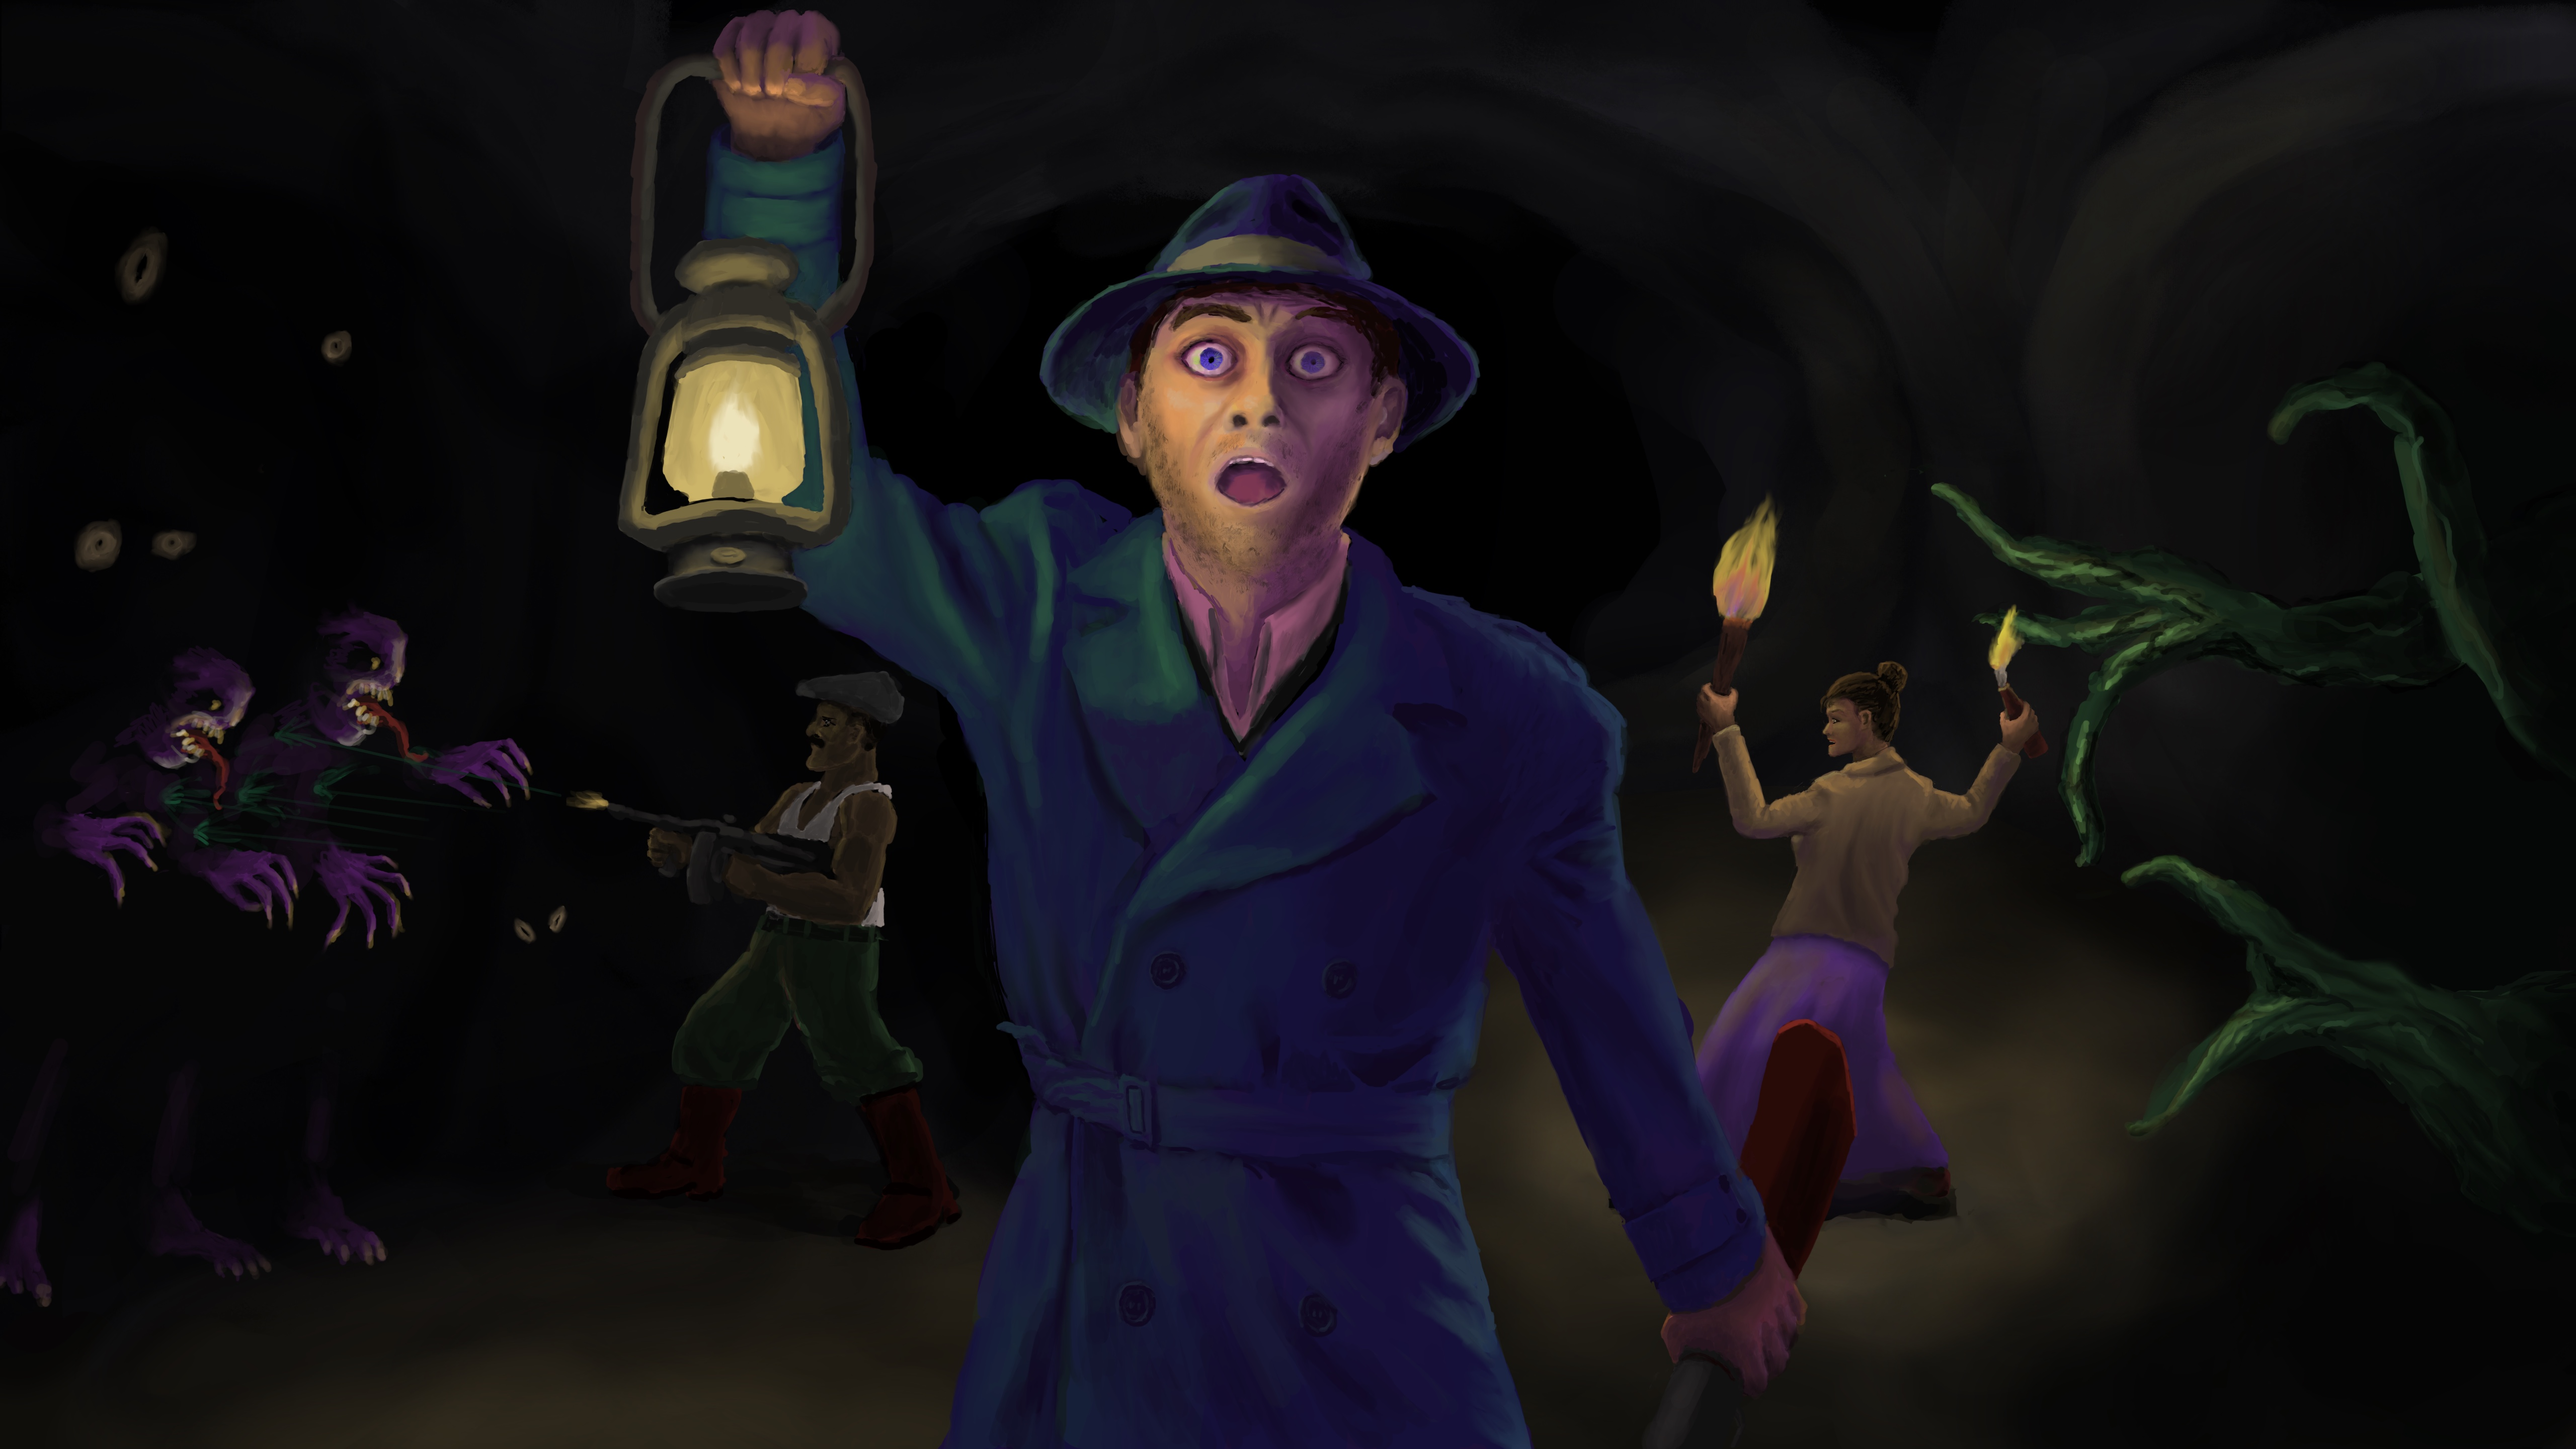
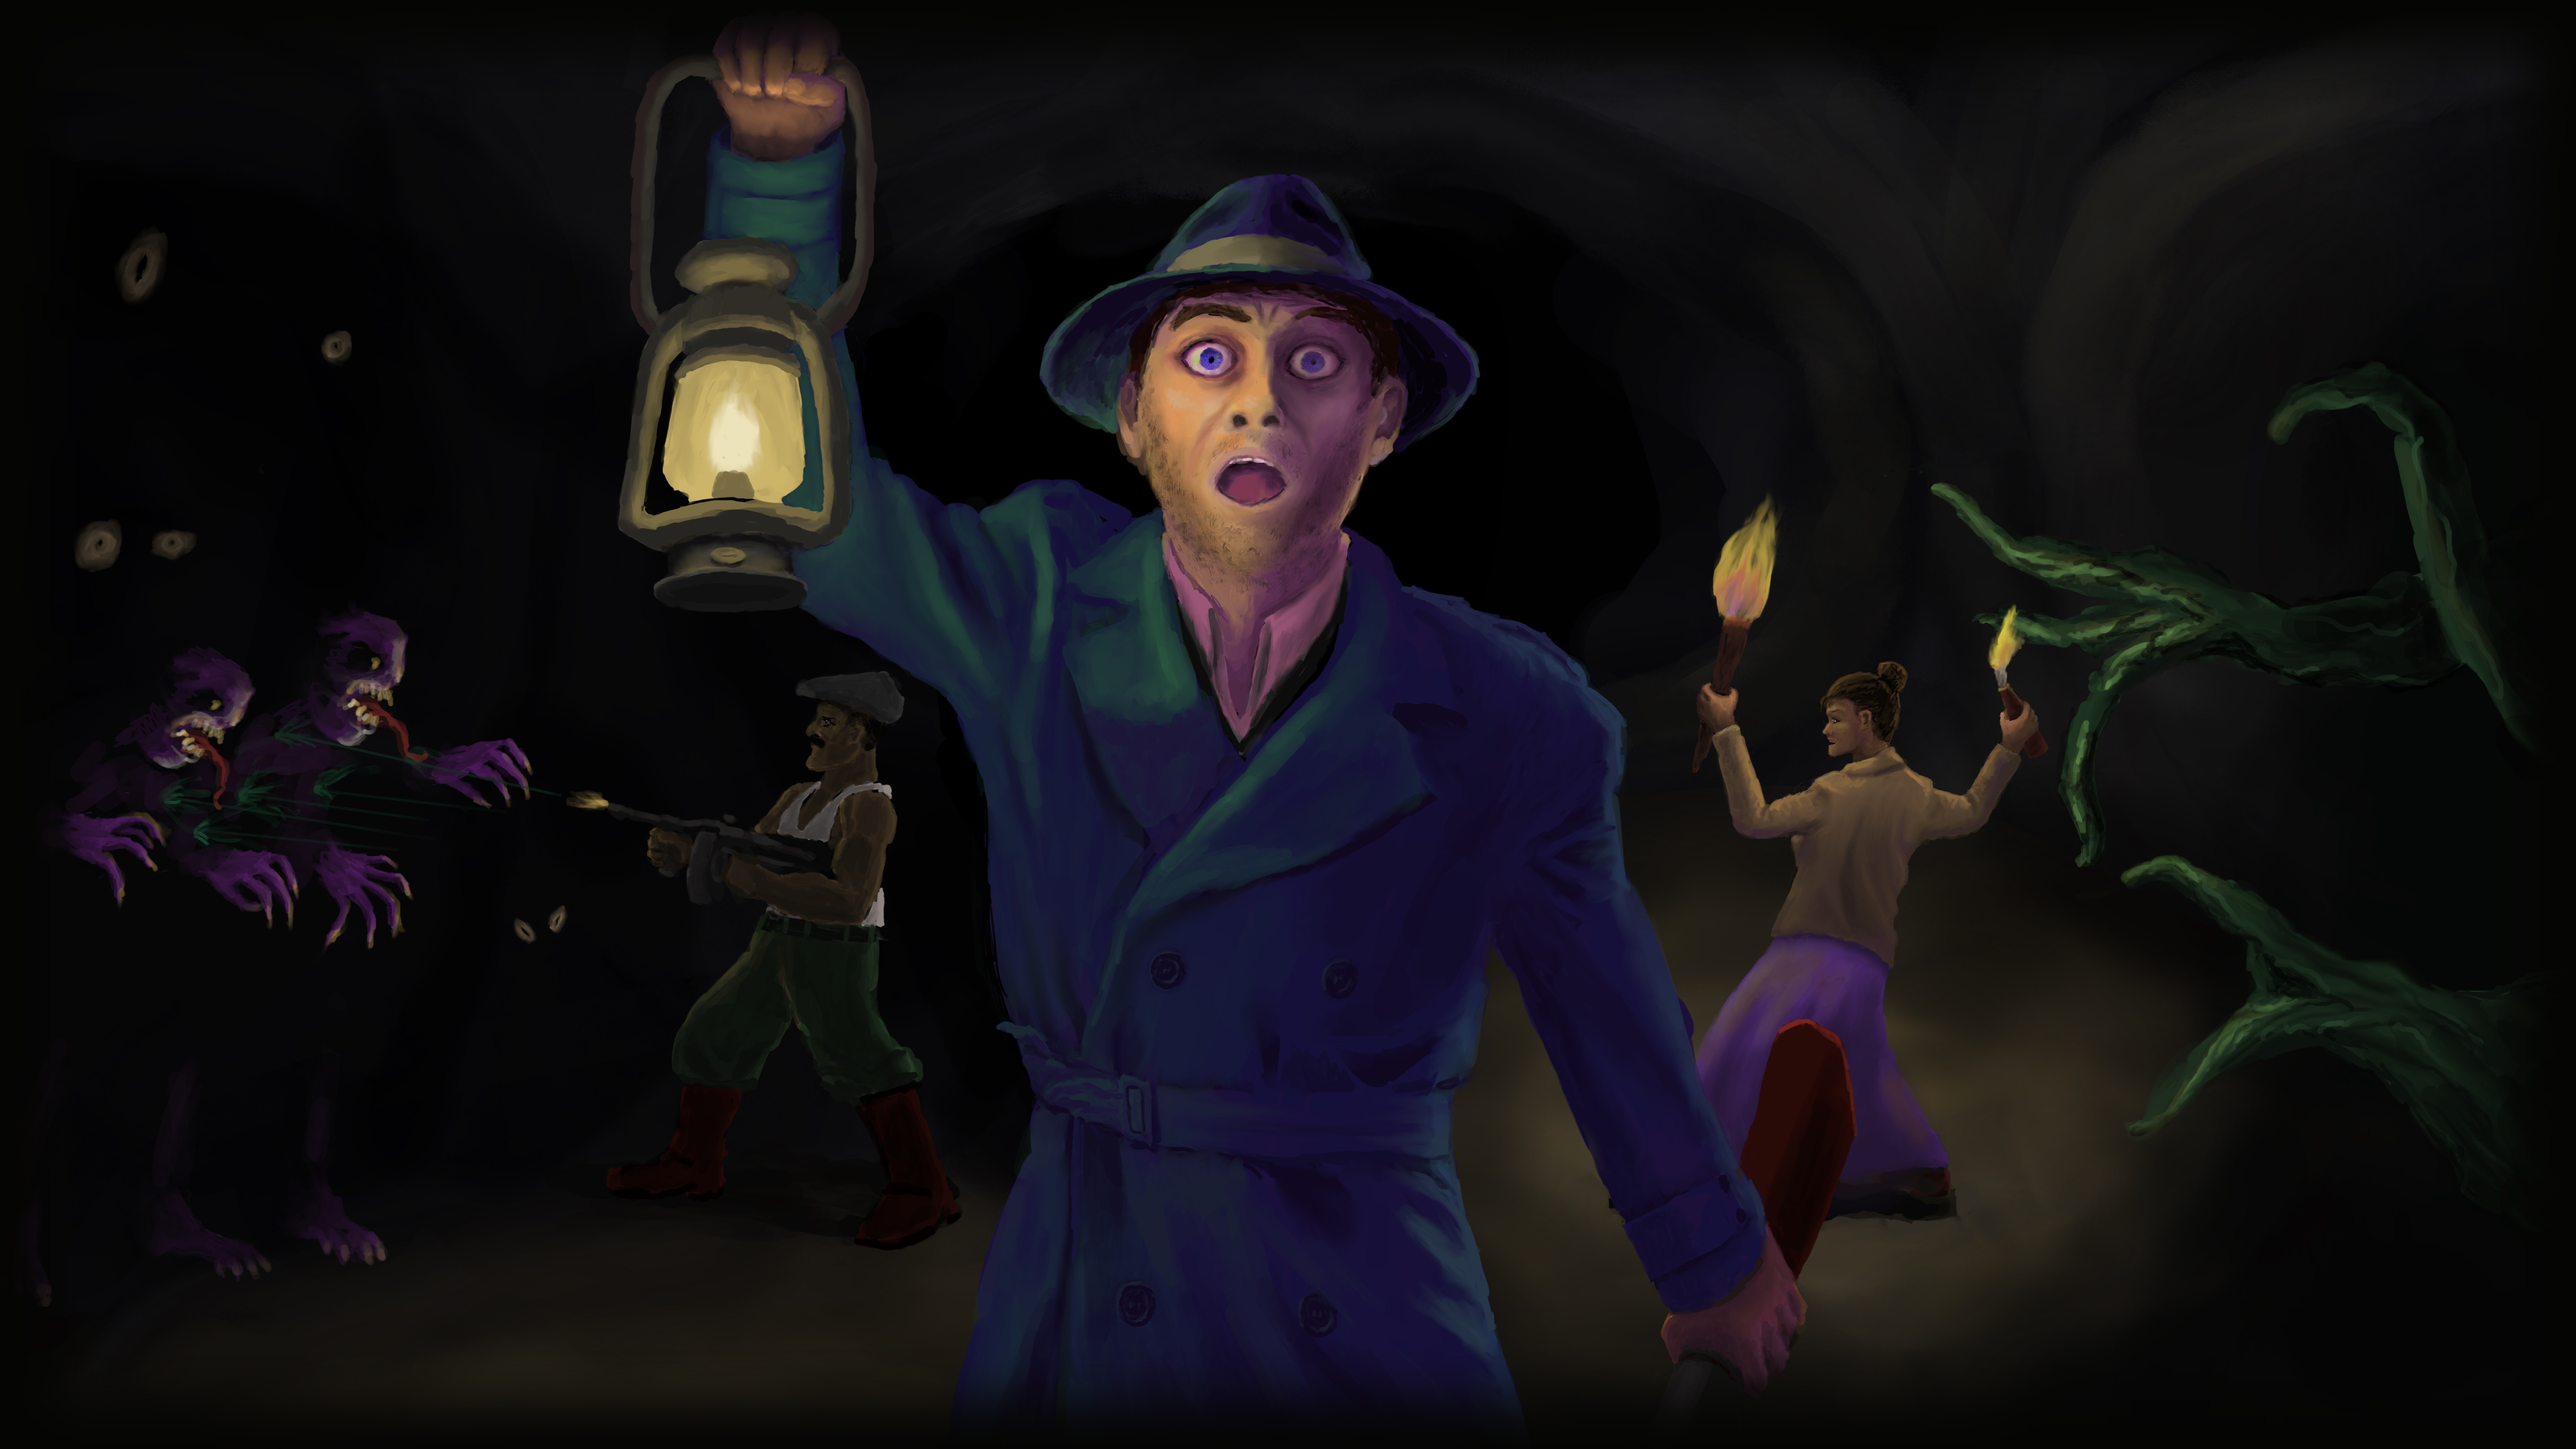
Style updates for title image and login dialog

diff --git a/client/src/css/login.css b/client/src/css/login.css
@@ -9,11 +9,17 @@
 	justify-content: center;
 	background-color: black;
 	background-image: url('../assets/ui/title_image.jpg');
-	background-size: contain;
+	background-size: cover;
 	background-repeat: no-repeat;
+	background-position: center;
 	border: none;
 	border-radius: unset;
 	box-sizing: border-box;
+}
+
+.dialog-login .dialog-message {
+	box-shadow: 0 0 25px black;
+	background-color: rgba(0,0,0,0.6);
 }
 
 #login-methods-container {
@@ -112,4 +118,11 @@
 	grid-area: content;
 	padding-top: 20px;
 	border-top: 2px solid burlywood;
+}
+
+@media (width < 1000px) {
+	.dialog-login {
+		background-size: contain;
+		background-position: top;
+	}
 }
